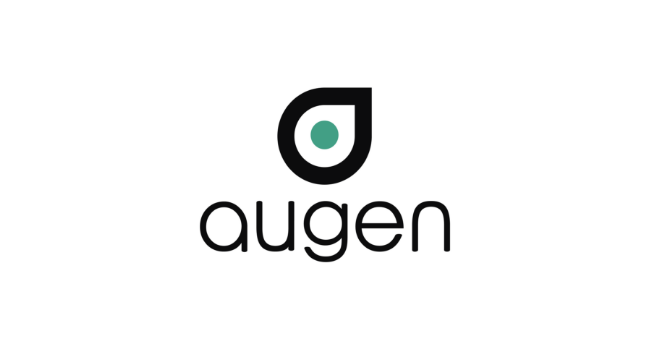
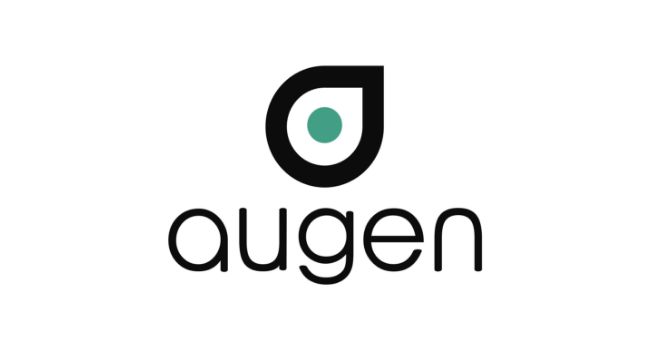
Version 1.0
Stable

Changed region(s): [[0.2462, 0.5714, 0.7385, 0.8286], [0.4, 0.1714, 0.6154, 0.5429]]

diff --git a/index.html b/index.html
@@ -72,7 +72,7 @@
           <hr class="divider light my-4">
           <p class="text-white-50 mb-4">Todos os anos o C3, em união ao PET e os DA's/CA's promovem a SAICC, Semana Acadêmica das Ciências Computacionais, um evento que reúne diversas atividades voltadas para a área. 
           <br/>Economize fazendo sua inscrição hoje e ainda ganhe brindes* exclusivos no evento<br/><br/>
-          <a class="btn btn-light btn-xl js-scroll-trigger" href="https://sinsc.furg.br/" target="_blank">Inscreva-se Agora</a>
+          <a class="btn btn-light btn-xl js-scroll-trigger" href="https://sinsc.furg.br/detalheseventos/978" target="_blank">Inscreva-se Agora</a>
         </div>
       </div>
     </div>
@@ -88,28 +88,28 @@
           <div class="mt-5">
             <i class="fas fa-4x fa-user text-primary mb-4"></i>
             <h3 class="h4 mb-2">Palestras</h3>
-            <p class="text-muted mb-0">descrição</p>
+            <!--<p class="text-muted mb-0">descrição</p>-->
           </div>
         </div>
         <div class="col-lg-3 col-md-6 text-center">
           <div class="mt-5">
             <i class="fas fa-4x fa-comments text-primary mb-4"></i>
             <h3 class="h4 mb-2">Workshops</h3>
-            <p class="text-muted mb-0">descrição</p>
+            <!--<p class="text-muted mb-0">descrição</p>-->
           </div>
         </div>
         <div class="col-lg-3 col-md-6 text-center">
           <div class="mt-5">
             <i class="fas fa-4x fa-book text-primary mb-4"></i>
             <h3 class="h4 mb-2">Minicursos</h3>
-            <p class="text-muted mb-0">descrição</p>
+            <!--<p class="text-muted mb-0">descrição</p>-->
           </div>
         </div>
         <div class="col-lg-3 col-md-6 text-center">
           <div class="mt-5">
             <i class="fas fa-4x fa-code text-primary mb-4"></i>
             <h3 class="h4 mb-2">Hackathon</h3>
-            <p class="text-muted mb-0">descrição</p>
+            <!--<p class="text-muted mb-0">descrição</p>-->
           </div>
         </div>
       </div>
@@ -119,7 +119,7 @@
   <!-- Programação -->
   <section class="page-section bg-dark text-white">
     <div class="container text-center">
-      <h2 class="mb-4">Dia 26 de Agosto</h2>
+      <h2 class="mb-4">Dia 24 de Agosto</h2>
       <table class="table table-dark">
           <thead>
             <tr>
@@ -129,36 +129,52 @@
             </tr>
           </thead>
           <tbody>
+
             <tr>
               <th scope="row">08:30</th>
-              <td>Palestra</td>
-              <td>Pellentesque Feugiat Dolor a Augue Ullamcorper Facilisis</td>
+              <td>Hackathon</td>
+              <td>Espaço reservado ao Hackaton</td>
             </tr>
+
             <tr>
-              <th scope="row">09:50</th>
-              <td>Palestra</td>
-              <td>Pellentesque Feugiat Dolor a Augue Ullamcorper Facilisis</td>
+              <th scope="row">10:00</th>
+              <td>Hackaton</td>
+              <td>Espaço reservado ao Hackaton</td>
+            </tr>
+
+            <tr>
+              <th scope="row">11:00</th>
+              <td>Hackaton</td>
+              <td>Espaço reservado ao Hackaton</td>
             </tr>
 
             <tr>
                 <th scope="row">--</th>
                 <td>--</td>
                 <td>--</td>
-              </tr>
+            </tr>
 
             <tr>
               <th scope="row">14:00</th>
-              <td>Workshop</td>
-              <td>Pellentesque Feugiat Dolor a Augue Ullamcorper Facilisis</td>
+              <td>Hackaton</td>
+              <td>Espaço reservado ao Hackaton</td>
             </tr>
+
             <tr>
-                <th scope="row">15:30</th>
-                <td>Palestra</td>
-                <td>Pellentesque Feugiat Dolor a Augue Ullamcorper Facilisis</td>
-              </tr>
+              <th scope="row">15:30</th>
+              <td>Hackaton</td>
+              <td>Espaço reservado ao Hackaton</td>
+            </tr>
+
+            <tr>
+                <th scope="row">17:00</th>
+                <td>Hackaton</td>
+                <td>Espaço reservado ao Hackaton</td>
+            </tr>
+
           </tbody>
         </table>
-      <a class="btn btn-light btn-xl" href="#">ver programação</a>
+      <a class="btn btn-light btn-xl" href="https://drive.google.com/open?id=1II5BrF647HElU925BYrgi2DS4LYO6GFq" target="_blank">ver programação</a>
     </div>
   </section>
 
@@ -194,9 +210,23 @@
               </div>
             </a>
           </div>
-
+        
+          <div class="col-lg-4 col-sm-6">
+            <a class="portfolio-box" href="https://www.wdhouse.com.br/" target="_blank">
+              <img class="img-fluid" src="img/sponsors/thumbnails/4.png" alt="">
+              <div class="portfolio-box-caption">
+                <div class="project-category text-white-50">
+                  Patrocinador Gold
+                </div>
+                <div class="project-name">
+                  WD House
+                </div>
+              </div>
+            </a>
+        </div>      
+        
         <div class="col-lg-4 col-sm-6">
-            <a class="portfolio-box" href="#" target="_blank">
+            <a class="portfolio-box" >
               <img class="img-fluid" src="img/sponsors/thumbnails/3.png" alt="">
               <div class="portfolio-box-caption">
                 <div class="project-category text-white-50">
@@ -210,42 +240,28 @@
         </div>
 
         <div class="col-lg-4 col-sm-6">
-            <a class="portfolio-box" href="#" target="_blank">
-              <img class="img-fluid" src="img/sponsors/thumbnails/temp.png" alt="">
+            <a class="portfolio-box" href="http://www.scadiagro.com.br/site/" target="_blank">
+              <img class="img-fluid" src="img/sponsors/thumbnails/5.png" alt="">
               <div class="portfolio-box-caption">
                 <div class="project-category text-white-50">
-                  Patrocinador
+                  Patrocinador Silver
                 </div>
                 <div class="project-name">
-                  Nome
+                  SCADIAgro 
                 </div>
               </div>
             </a>
         </div>
 
         <div class="col-lg-4 col-sm-6">
-            <a class="portfolio-box" href="#" target="_blank">
+            <a class="portfolio-box" href="mailto:petc3furg@gmail.com" target="_blank">
               <img class="img-fluid" src="img/sponsors/thumbnails/temp.png" alt="">
               <div class="portfolio-box-caption">
                 <div class="project-category text-white-50">
-                  Patrocinador
+                  Espaço para patrocinador
                 </div>
                 <div class="project-name">
-                  Nome
-                </div>
-              </div>
-            </a>
-        </div>
-
-        <div class="col-lg-4 col-sm-6">
-            <a class="portfolio-box" href="#" target="_blank">
-              <img class="img-fluid" src="img/sponsors/thumbnails/temp.png" alt="">
-              <div class="portfolio-box-caption">
-                <div class="project-category text-white-50">
-                  Patrocinador
-                </div>
-                <div class="project-name">
-                  Nome
+                  Clique para divulgar sua marca aqui
                 </div>
               </div>
             </a>
@@ -261,17 +277,16 @@
         <div class="col-lg-8 text-center">
           <h2 class="mt-0">Precisa de Ajuda?</h2>
           <hr class="divider my-4">
-          <p class="text-muted mb-5">entre em contato conosco através de um dos canais abaixo <br/> ou por uma de nossas redes sociais</p>
+          <p class="text-muted mb-5">entre em contato conosco através do canal abaixo <br/> ou por uma de nossas redes sociais</p>
         </div>
       </div>
       <div class="row">
-        <div class="col-lg-4 ml-auto text-center mb-5 mb-lg-0">
-          <i class="fas fa-phone fa-3x mb-3 text-muted"></i>
-          <div>(53) 32224523</div>
+        <div class="col-lg-4 text-center mb-5 mb-lg-0"> 
+          <div></div>
         </div>
         <div class="col-lg-4 mr-auto text-center">
           <i class="fas fa-envelope fa-3x mb-3 text-muted"></i>
-          <a class="d-block" href="mailto:pet-c3@furg.br">pet-c3@furg.br</a>
+          <a class="d-block" href="mailto:petc3furg@gmail.com">petc3furg@gmail.com</a>
         </div>
       </div>
     </div>

diff --git a/css/creative.css b/css/creative.css
@@ -481,8 +481,9 @@ mark,
 }
 
 .img-fluid {
-  max-width: 100%;
+  width: 100%;
   height: auto;
+  
 }
 
 .img-thumbnail {
